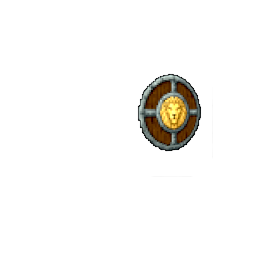
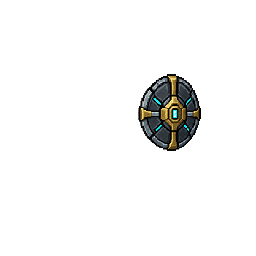
art: establish cyber-aegis and corinthian helmet style gate

Changed region(s): [[0.5312, 0.2812, 0.7812, 0.5938]]

diff --git a/docs/AI-OPERATOR-ART-HANDOFF.md b/docs/AI-OPERATOR-ART-HANDOFF.md
@@ -1,8 +1,8 @@
-# Operator equipment art — Executions 1–2
+# Operator equipment art — Executions 1–3
 
 Branch: `astra/operator-equipment-art-revision`, from current main **aaff08e**
-(2026-09-13). Execution 2 complete (2026-09-14): only the sword and spear
-production PNGs revised. Production code, mappings and all other art unchanged.
+(2026-09-13). Execution 3 complete (2026-09-14): sword, spear, shield and helmet revised.
+Production code, mappings and all other art unchanged.
 
 ## Durable references
 
@@ -167,9 +167,38 @@ Pre-existing observations (do not repair in Execution 1):
   with explicit loopback host and installed Chromium because this environment's
   network-interface enumeration/default browser download failed; no repo config
   changes were needed.
-- Next: **Execution 3 only**, shield + helmet and the four-prototype style gate.
-  Carry forward dark gunmetal, selective cyan and substantial brass fittings.
-  Keep utility attachment space and the documented layer order, especially scope
-  above helmet and scanner above shield. Revisit sword/spear only if that gate
-  exposes a concrete cross-family defect. Do not redo the baseline or propagate
-  the remaining weapons/armor before the gate.
+## Execution 3 — armor foundation and style gate
+
+- **Cyber-Aegis:** dark overlapping radial plates, restrained brass ribs and
+  substantial central boss, small cyan core and short plate seams. Original oval
+  orientation and forearm attachment preserved. Scanner remains the top layer.
+- **Corinthian Echo:** modern enclosed segmented combat helmet, pronounced cheek
+  framing, brass ridge/facial structure and narrow cyan ocular slit. No plume,
+  literal historical costume or engraving. Scope sits naturally over the eye.
+- Built-in imagegen edited original PNGs using the revised sword and utility
+  references. Helmet's first draft had a baked checkerboard; an imagegen alpha
+  extraction corrected it before integration. No rejected draft is shipped.
+- Sharp removed alpha below 32, cropped ink, resized nearest-neighbour to original
+  solid envelopes, and placed on transparent 256px frames: shield 63×77 at
+  (138,74); helmet 46×62 at (109,43). No renderer offset or layer-order change.
+- **Four-prototype style gate passed:** sword, spear, shield and helmet share
+  dark gunmetal, steel bevels, structural brass and selective cyan. Classical
+  lineage is substantial silhouette/geometry; practical cybertech dominates.
+  Sword/spear needed no correction and retain their Execution 2 hashes.
+- Five real React preview loadouts reviewed at 320px: sword+armor+scope,
+  spear+shield+scanner, sword+helmet+scope, sword+shield+thruster,
+  spear+helmet+amplifier. All four utilities visible, no new clipping/floating,
+  hand alignment preserved, and gold/cyan readable without exterior glow.
+- Capture: 5/5 loadouts, 17/17 images loaded, zero runtime errors; desktop and
+  phone display measurements in `docs/operator-art-execution-3/validation.json`.
+  `style-gate.png` preserves five native-size 320px composites. Reproduce with
+  `CAPTURE_SET=armor-gate`, a new OUTPUT_DIR and the existing capture script.
+- Existing utility/weapon e2e: 14 passed on desktop/mobile. No new test framework
+  or production TypeScript changes. Reused Execution 2 typecheck findings above.
+- Changed: shield/helmet PNGs, capture script, this handoff and Execution 3 notes,
+  capture sheet and validation JSON. Base operator and remaining armor are still
+  intentionally medieval/light-cloth until their scheduled execution.
+- **Next: Execution 4 only**, propagate the settled language to axe, dagger and
+  mace. Preserve original grip/registration. Use these four prototypes and the
+  unchanged utilities as references; do not reopen overall direction or start
+  the remaining armor/support layers yet.

diff --git a/docs/operator-art-execution-3/production-notes.md b/docs/operator-art-execution-3/production-notes.md
@@ -1,0 +1,27 @@
+# Execution 3 — accepted armor prototypes
+
+Built-in imagegen prompt briefs:
+
+- **Shield edit:** Original shield is the placement/oval-orientation target;
+  revised sword and scanner define materials. Cyber-Aegis with dark overlapping
+  ballistic plates, subtle radial organization, substantial brass central boss,
+  small cyan core, restrained brass structure and no medieval lion/wood. Practical
+  cybertech dominates classical lineage approximately 80/20. Crisp pixel masses,
+  no engraving/bloom/background. Preserve normalized bounds x138–200, y74–150.
+- **Helmet edit:** Original helmet is the 3/4 screen-right orientation/attachment
+  target; sword and scope define materials. Modern enclosed combat helmet with
+  Corinthian cheek/facial framing, segmented technological rear/top, brass ridge,
+  selective cyan eye slit, no horsehair or literal historical costume. Preserve
+  head/neck envelope x109–154, y43–104, and scope attachment near (134,76).
+- **Helmet correction:** Background extraction only. Remove every baked
+  checkerboard pixel and haze; actual transparent RGBA outside helmet. Preserve
+  artwork, pose, colors and pixel edges. This corrected output was accepted.
+
+Final layers remain 256×256 transparent PNGs at the original production paths:
+`client/public/imgs/compendium/ops/armor/shield.png` and `armor/helmet.png`.
+Sharp handled alpha cleanup and registration, not artwork generation. See handoff
+for exact placement and `style-gate.png` for five real composited loadouts.
+
+The style gate passed with the existing revised sword/spear and all four utilities.
+Scanner intentionally overlays the shield; scope overlays the helmet eye.
+No renderer, item mapping, gameplay or existing weapon changes were required.
